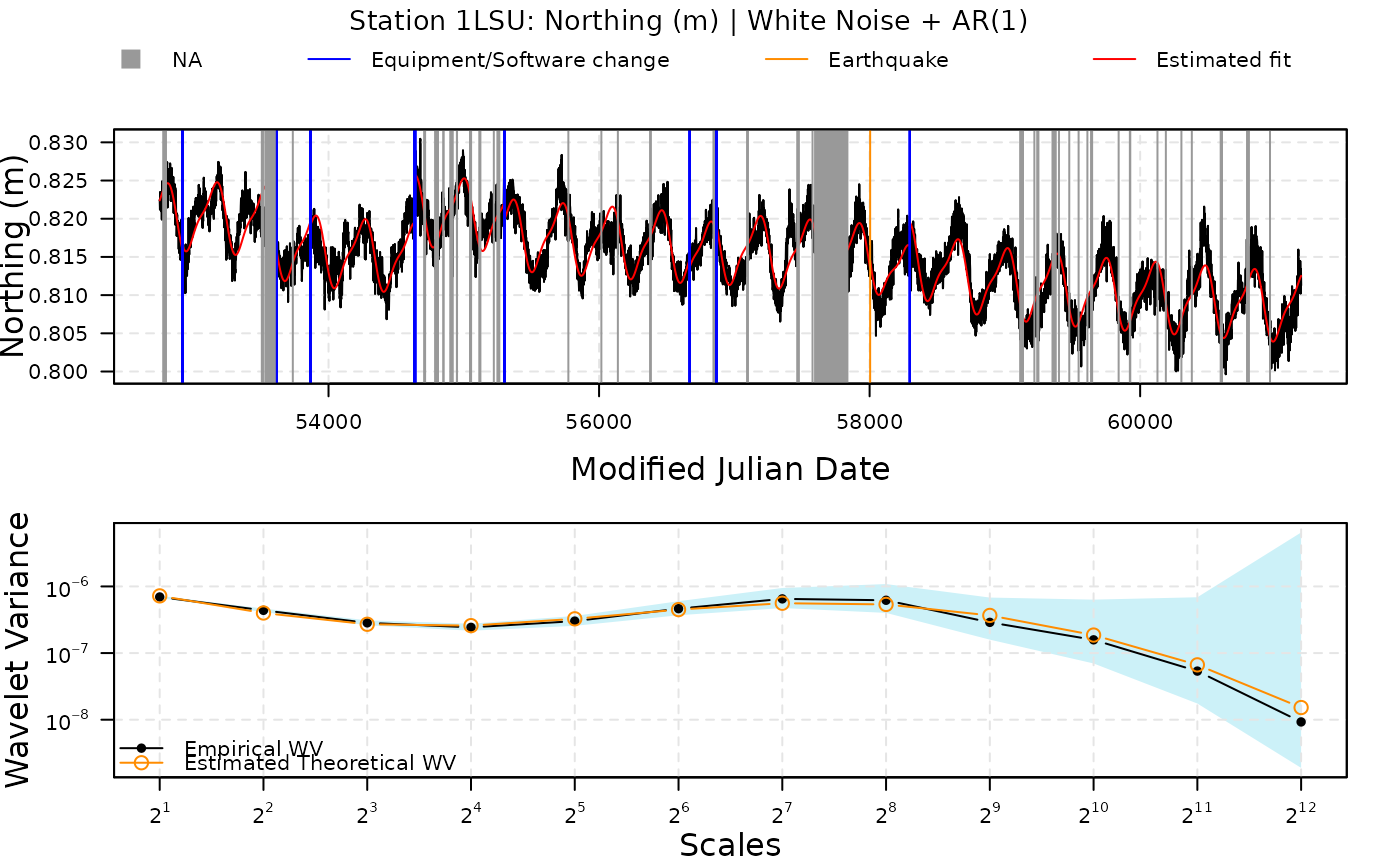
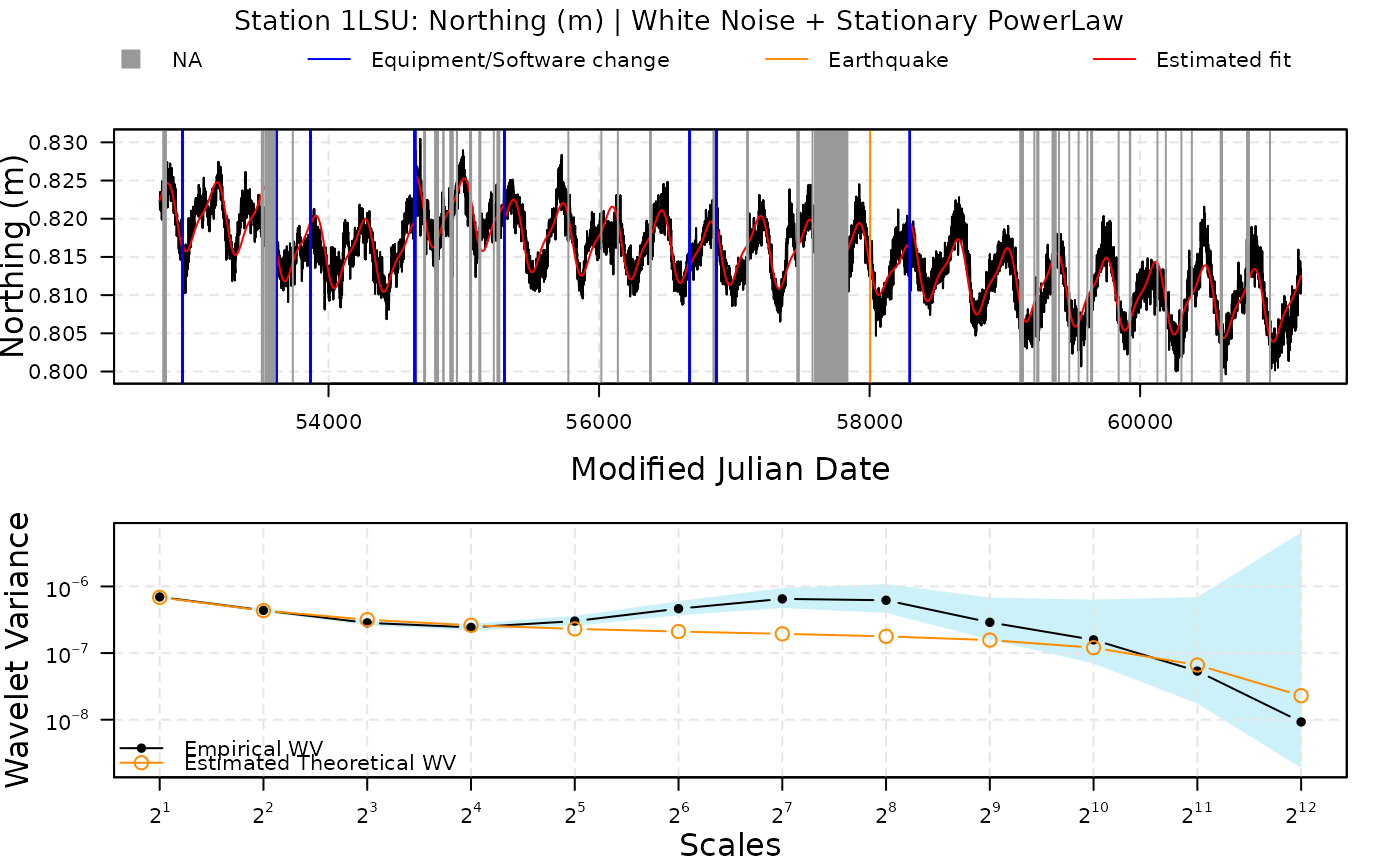
Deploying to gh-pages from @ SMAC-Group/gmwmx2@d0be5cc4b99071ec9215946b4d0a94a5666f7373 🚀

diff --git a/reference/plot.gmwmx2_fit_gnss_ts_ngl.html b/reference/plot.gmwmx2_fit_gnss_ts_ngl.html
@@ -111,76 +111,32 @@
     <div id="ref-examples">
     <h2>Examples</h2>
     <div class="sourceCode"><pre class="sourceCode r"><code><span class="r-in"><span><span class="va">station_data</span> <span class="op">=</span> <span class="fu">gmwmx2</span><span class="fu">::</span><span class="fu"><a href="download_station_ngl.html">download_station_ngl</a></span><span class="op">(</span><span class="st">"1LSU"</span><span class="op">)</span></span></span>
-<span class="r-in"><span><span class="co"># fit station with WN and AR1</span></span></span>
-<span class="r-in"><span><span class="va">fit1</span> <span class="op">&lt;-</span> <span class="fu"><a href="gmwmx2.html">gmwmx2</a></span><span class="op">(</span></span></span>
-<span class="r-in"><span>  <span class="va">station_data</span>,</span></span>
-<span class="r-in"><span>  n_seasonal <span class="op">=</span> <span class="fl">2</span>,</span></span>
-<span class="r-in"><span>  model <span class="op">=</span> <span class="fu"><a href="wn.html">wn</a></span><span class="op">(</span><span class="op">)</span> <span class="op">+</span> <span class="fu"><a href="ar1.html">ar1</a></span><span class="op">(</span><span class="op">)</span>, component <span class="op">=</span> <span class="st">"N"</span></span></span>
-<span class="r-in"><span><span class="op">)</span></span></span>
-<span class="r-in"><span><span class="va">fit1</span></span></span>
-<span class="r-out co"><span class="r-pr">#&gt;</span> GMWMX fit GNSS Times Series (Nevada Geodetic Laboratory)</span>
-<span class="r-out co"><span class="r-pr">#&gt;</span>                         Estimate Std.Error   CI.Lower   CI.Upper</span>
-<span class="r-out co"><span class="r-pr">#&gt;</span> Intercept              8.148e-01 2.226e-03  8.104e-01  8.191e-01</span>
-<span class="r-out co"><span class="r-pr">#&gt;</span> Trend                 -1.275e-06 4.540e-07 -2.165e-06 -3.853e-07</span>
-<span class="r-out co"><span class="r-pr">#&gt;</span> Sin (Annual)          -5.644e-04 2.250e-04 -1.005e-03 -1.235e-04</span>
-<span class="r-out co"><span class="r-pr">#&gt;</span> Cos (Annual)          -4.097e-03 2.248e-04 -4.537e-03 -3.656e-03</span>
-<span class="r-out co"><span class="r-pr">#&gt;</span> Sin (Semi-Annual)      1.124e-03 1.487e-04  8.321e-04  1.415e-03</span>
-<span class="r-out co"><span class="r-pr">#&gt;</span> Cos (Semi-Annual)     -4.307e-04 1.486e-04 -7.218e-04 -1.395e-04</span>
-<span class="r-out co"><span class="r-pr">#&gt;</span> Jump: MJD 52920        5.892e-04 1.375e-03 -2.106e-03  3.284e-03</span>
-<span class="r-out co"><span class="r-pr">#&gt;</span> Jump: MJD 53619       -2.957e-03 1.258e-03 -5.423e-03 -4.902e-04</span>
-<span class="r-out co"><span class="r-pr">#&gt;</span> Jump: MJD 53866       -4.751e-04 1.251e-03 -2.928e-03  1.978e-03</span>
-<span class="r-out co"><span class="r-pr">#&gt;</span> Jump: MJD 54637       -2.108e-04 2.014e-03 -4.159e-03  3.737e-03</span>
-<span class="r-out co"><span class="r-pr">#&gt;</span> Jump: MJD 54640        6.484e-03 2.016e-03  2.533e-03  1.044e-02</span>
-<span class="r-out co"><span class="r-pr">#&gt;</span> Jump: MJD 55300       -2.310e-03 9.677e-04 -4.206e-03 -4.132e-04</span>
-<span class="r-out co"><span class="r-pr">#&gt;</span> Jump: MJD 56671       -1.010e-03 1.302e-03 -3.562e-03  1.542e-03</span>
-<span class="r-out co"><span class="r-pr">#&gt;</span> Jump: MJD 56868        1.196e-03 1.301e-03 -1.354e-03  3.746e-03</span>
-<span class="r-out co"><span class="r-pr">#&gt;</span> Jump: MJD 58298        3.127e-03 1.977e-03 -7.481e-04  7.001e-03</span>
-<span class="r-out co"><span class="r-pr">#&gt;</span> Jump: MJD 58004        1.098e-03 1.492e-03 -1.826e-03  4.022e-03</span>
-<span class="r-out co"><span class="r-pr">#&gt;</span> Earthquake: MJD 58004 -6.512e-03 3.377e-03 -1.313e-02  1.078e-04</span>
-<span class="r-out co"><span class="r-pr">#&gt;</span> </span>
-<span class="r-out co"><span class="r-pr">#&gt;</span> Missingness model</span>
-<span class="r-out co"><span class="r-pr">#&gt;</span>   Proportion missing : 0.0576 </span>
-<span class="r-out co"><span class="r-pr">#&gt;</span>   p1                 : 0.0072 </span>
-<span class="r-out co"><span class="r-pr">#&gt;</span>   p2                 : 0.1173 </span>
-<span class="r-out co"><span class="r-pr">#&gt;</span>   p*                 : 0.9424 </span>
-<span class="r-out co"><span class="r-pr">#&gt;</span> </span>
-<span class="r-out co"><span class="r-pr">#&gt;</span> Stochastic model</span>
-<span class="r-out co"><span class="r-pr">#&gt;</span>   Sum of 2 processes</span>
-<span class="r-out co"><span class="r-pr">#&gt;</span>   [1] White Noise</span>
-<span class="r-out co"><span class="r-pr">#&gt;</span>        Estimated parameters : sigma2 = 1.443e-06 </span>
-<span class="r-out co"><span class="r-pr">#&gt;</span>   [2] AR(1)</span>
-<span class="r-out co"><span class="r-pr">#&gt;</span>        Estimated parameters : phi = 0.9804, sigma2 = 1.352e-07 </span>
-<span class="r-out co"><span class="r-pr">#&gt;</span> </span>
-<span class="r-out co"><span class="r-pr">#&gt;</span> Runtime (seconds)</span>
-<span class="r-out co"><span class="r-pr">#&gt;</span>   Total              : 3.3090 </span>
-<span class="r-in"><span><span class="fu"><a href="https://rdrr.io/r/graphics/plot.default.html" class="external-link">plot</a></span><span class="op">(</span><span class="va">fit1</span><span class="op">)</span></span></span>
-<span class="r-plt img"><img src="plot.gmwmx2_fit_gnss_ts_ngl-1.png" alt="" width="700" height="433"></span>
 <span class="r-in"><span><span class="co"># fit station with WN and PL</span></span></span>
-<span class="r-in"><span><span class="va">fit2</span> <span class="op">&lt;-</span> <span class="fu"><a href="gmwmx2.html">gmwmx2</a></span><span class="op">(</span></span></span>
+<span class="r-in"><span><span class="va">fit1</span> <span class="op">&lt;-</span> <span class="fu"><a href="gmwmx2.html">gmwmx2</a></span><span class="op">(</span></span></span>
 <span class="r-in"><span>  <span class="va">station_data</span>,</span></span>
 <span class="r-in"><span>  n_seasonal <span class="op">=</span> <span class="fl">2</span>,</span></span>
 <span class="r-in"><span>  model <span class="op">=</span> <span class="fu"><a href="wn.html">wn</a></span><span class="op">(</span><span class="op">)</span> <span class="op">+</span> <span class="fu"><a href="pl.html">pl</a></span><span class="op">(</span><span class="op">)</span>, component <span class="op">=</span> <span class="st">"N"</span></span></span>
 <span class="r-in"><span><span class="op">)</span></span></span>
-<span class="r-in"><span><span class="va">fit2</span></span></span>
+<span class="r-in"><span><span class="va">fit1</span></span></span>
 <span class="r-out co"><span class="r-pr">#&gt;</span> GMWMX fit GNSS Times Series (Nevada Geodetic Laboratory)</span>
 <span class="r-out co"><span class="r-pr">#&gt;</span>                         Estimate Std.Error   CI.Lower  CI.Upper</span>
-<span class="r-out co"><span class="r-pr">#&gt;</span> Intercept              8.148e-01 5.008e-01 -1.667e-01 1.796e+00</span>
-<span class="r-out co"><span class="r-pr">#&gt;</span> Trend                 -1.275e-06 1.217e-05 -2.513e-05 2.258e-05</span>
-<span class="r-out co"><span class="r-pr">#&gt;</span> Sin (Annual)          -5.644e-04 7.422e-03 -1.511e-02 1.398e-02</span>
-<span class="r-out co"><span class="r-pr">#&gt;</span> Cos (Annual)          -4.097e-03 7.404e-03 -1.861e-02 1.042e-02</span>
-<span class="r-out co"><span class="r-pr">#&gt;</span> Sin (Semi-Annual)      1.124e-03 7.133e-03 -1.286e-02 1.510e-02</span>
-<span class="r-out co"><span class="r-pr">#&gt;</span> Cos (Semi-Annual)     -4.307e-04 7.116e-03 -1.438e-02 1.352e-02</span>
-<span class="r-out co"><span class="r-pr">#&gt;</span> Jump: MJD 52920        5.892e-04 4.065e-02 -7.909e-02 8.027e-02</span>
-<span class="r-out co"><span class="r-pr">#&gt;</span> Jump: MJD 53619       -2.957e-03 3.534e-02 -7.223e-02 6.631e-02</span>
-<span class="r-out co"><span class="r-pr">#&gt;</span> Jump: MJD 53866       -4.751e-04 3.508e-02 -6.922e-02 6.827e-02</span>
-<span class="r-out co"><span class="r-pr">#&gt;</span> Jump: MJD 54637       -2.108e-04 1.161e-01 -2.277e-01 2.273e-01</span>
-<span class="r-out co"><span class="r-pr">#&gt;</span> Jump: MJD 54640        6.484e-03 1.161e-01 -2.211e-01 2.341e-01</span>
-<span class="r-out co"><span class="r-pr">#&gt;</span> Jump: MJD 55300       -2.310e-03 2.567e-02 -5.262e-02 4.800e-02</span>
-<span class="r-out co"><span class="r-pr">#&gt;</span> Jump: MJD 56671       -1.010e-03 3.719e-02 -7.390e-02 7.188e-02</span>
-<span class="r-out co"><span class="r-pr">#&gt;</span> Jump: MJD 56868        1.196e-03 3.723e-02 -7.177e-02 7.416e-02</span>
-<span class="r-out co"><span class="r-pr">#&gt;</span> Jump: MJD 58298        3.127e-03 6.089e-02 -1.162e-01 1.225e-01</span>
-<span class="r-out co"><span class="r-pr">#&gt;</span> Jump: MJD 58004        1.098e-03 4.113e-02 -7.952e-02 8.172e-02</span>
-<span class="r-out co"><span class="r-pr">#&gt;</span> Earthquake: MJD 58004 -6.512e-03 1.007e-01 -2.039e-01 1.909e-01</span>
+<span class="r-out co"><span class="r-pr">#&gt;</span> Intercept              8.148e-01 5.623e-01 -2.874e-01 1.917e+00</span>
+<span class="r-out co"><span class="r-pr">#&gt;</span> Trend                 -1.275e-06 1.366e-05 -2.806e-05 2.551e-05</span>
+<span class="r-out co"><span class="r-pr">#&gt;</span> Sin (Annual)          -5.644e-04 8.334e-03 -1.690e-02 1.577e-02</span>
+<span class="r-out co"><span class="r-pr">#&gt;</span> Cos (Annual)          -4.097e-03 8.314e-03 -2.039e-02 1.220e-02</span>
+<span class="r-out co"><span class="r-pr">#&gt;</span> Sin (Semi-Annual)      1.124e-03 8.010e-03 -1.458e-02 1.682e-02</span>
+<span class="r-out co"><span class="r-pr">#&gt;</span> Cos (Semi-Annual)     -4.307e-04 7.991e-03 -1.609e-02 1.523e-02</span>
+<span class="r-out co"><span class="r-pr">#&gt;</span> Jump: MJD 52920        5.892e-04 4.565e-02 -8.888e-02 9.006e-02</span>
+<span class="r-out co"><span class="r-pr">#&gt;</span> Jump: MJD 53619       -2.957e-03 3.968e-02 -8.074e-02 7.482e-02</span>
+<span class="r-out co"><span class="r-pr">#&gt;</span> Jump: MJD 53866       -4.751e-04 3.939e-02 -7.767e-02 7.672e-02</span>
+<span class="r-out co"><span class="r-pr">#&gt;</span> Jump: MJD 54637       -2.108e-04 1.303e-01 -2.557e-01 2.553e-01</span>
+<span class="r-out co"><span class="r-pr">#&gt;</span> Jump: MJD 54640        6.484e-03 1.304e-01 -2.491e-01 2.621e-01</span>
+<span class="r-out co"><span class="r-pr">#&gt;</span> Jump: MJD 55300       -2.310e-03 2.882e-02 -5.879e-02 5.417e-02</span>
+<span class="r-out co"><span class="r-pr">#&gt;</span> Jump: MJD 56671       -1.010e-03 4.176e-02 -8.286e-02 8.084e-02</span>
+<span class="r-out co"><span class="r-pr">#&gt;</span> Jump: MJD 56868        1.196e-03 4.180e-02 -8.073e-02 8.312e-02</span>
+<span class="r-out co"><span class="r-pr">#&gt;</span> Jump: MJD 58298        3.127e-03 6.837e-02 -1.309e-01 1.371e-01</span>
+<span class="r-out co"><span class="r-pr">#&gt;</span> Jump: MJD 58004        1.098e-03 4.618e-02 -8.942e-02 9.162e-02</span>
+<span class="r-out co"><span class="r-pr">#&gt;</span> Earthquake: MJD 58004 -6.512e-03 1.131e-01 -2.282e-01 2.152e-01</span>
 <span class="r-out co"><span class="r-pr">#&gt;</span> </span>
 <span class="r-out co"><span class="r-pr">#&gt;</span> Missingness model</span>
 <span class="r-out co"><span class="r-pr">#&gt;</span>   Proportion missing : 0.0576 </span>
@@ -191,58 +147,14 @@
 <span class="r-out co"><span class="r-pr">#&gt;</span> Stochastic model</span>
 <span class="r-out co"><span class="r-pr">#&gt;</span>   Sum of 2 processes</span>
 <span class="r-out co"><span class="r-pr">#&gt;</span>   [1] White Noise</span>
-<span class="r-out co"><span class="r-pr">#&gt;</span>        Estimated parameters : sigma2 = 8.201e-07 </span>
+<span class="r-out co"><span class="r-pr">#&gt;</span>        Estimated parameters : sigma2 = 8.2e-07 </span>
 <span class="r-out co"><span class="r-pr">#&gt;</span>   [2] Stationary PowerLaw</span>
 <span class="r-out co"><span class="r-pr">#&gt;</span>        Estimated parameters : kappa =    -1, sigma2 = 9.783e-07 </span>
 <span class="r-out co"><span class="r-pr">#&gt;</span> </span>
 <span class="r-out co"><span class="r-pr">#&gt;</span> Runtime (seconds)</span>
-<span class="r-out co"><span class="r-pr">#&gt;</span>   Total              : 1.7570 </span>
-<span class="r-in"><span><span class="fu"><a href="https://rdrr.io/r/graphics/plot.default.html" class="external-link">plot</a></span><span class="op">(</span><span class="va">fit2</span><span class="op">)</span></span></span>
-<span class="r-plt img"><img src="plot.gmwmx2_fit_gnss_ts_ngl-2.png" alt="" width="700" height="433"></span>
-<span class="r-in"><span><span class="co"># fit station with WN and Matern</span></span></span>
-<span class="r-in"><span><span class="va">fit3</span> <span class="op">=</span> <span class="fu"><a href="gmwmx2.html">gmwmx2</a></span><span class="op">(</span></span></span>
-<span class="r-in"><span>  <span class="va">station_data</span>,</span></span>
-<span class="r-in"><span>  n_seasonal <span class="op">=</span> <span class="fl">2</span>,</span></span>
-<span class="r-in"><span>  model <span class="op">=</span> <span class="fu"><a href="wn.html">wn</a></span><span class="op">(</span><span class="op">)</span> <span class="op">+</span> <span class="fu"><a href="matern.html">matern</a></span><span class="op">(</span><span class="op">)</span>, component <span class="op">=</span> <span class="st">"N"</span></span></span>
-<span class="r-in"><span><span class="op">)</span></span></span>
-<span class="r-in"><span><span class="va">fit3</span></span></span>
-<span class="r-out co"><span class="r-pr">#&gt;</span> GMWMX fit GNSS Times Series (Nevada Geodetic Laboratory)</span>
-<span class="r-out co"><span class="r-pr">#&gt;</span>                         Estimate Std.Error   CI.Lower   CI.Upper</span>
-<span class="r-out co"><span class="r-pr">#&gt;</span> Intercept              8.148e-01 2.360e-03  8.101e-01  8.194e-01</span>
-<span class="r-out co"><span class="r-pr">#&gt;</span> Trend                 -1.275e-06 4.870e-07 -2.230e-06 -3.205e-07</span>
-<span class="r-out co"><span class="r-pr">#&gt;</span> Sin (Annual)          -5.644e-04 2.178e-04 -9.912e-04 -1.375e-04</span>
-<span class="r-out co"><span class="r-pr">#&gt;</span> Cos (Annual)          -4.097e-03 2.180e-04 -4.524e-03 -3.669e-03</span>
-<span class="r-out co"><span class="r-pr">#&gt;</span> Sin (Semi-Annual)      1.124e-03 1.384e-04  8.525e-04  1.395e-03</span>
-<span class="r-out co"><span class="r-pr">#&gt;</span> Cos (Semi-Annual)     -4.307e-04 1.383e-04 -7.017e-04 -1.597e-04</span>
-<span class="r-out co"><span class="r-pr">#&gt;</span> Jump: MJD 52920        5.892e-04 1.421e-03 -2.195e-03  3.374e-03</span>
-<span class="r-out co"><span class="r-pr">#&gt;</span> Jump: MJD 53619       -2.957e-03 1.320e-03 -5.544e-03 -3.695e-04</span>
-<span class="r-out co"><span class="r-pr">#&gt;</span> Jump: MJD 53866       -4.751e-04 1.314e-03 -3.050e-03  2.100e-03</span>
-<span class="r-out co"><span class="r-pr">#&gt;</span> Jump: MJD 54637       -2.108e-04 2.012e-03 -4.154e-03  3.732e-03</span>
-<span class="r-out co"><span class="r-pr">#&gt;</span> Jump: MJD 54640        6.484e-03 2.013e-03  2.538e-03  1.043e-02</span>
-<span class="r-out co"><span class="r-pr">#&gt;</span> Jump: MJD 55300       -2.310e-03 1.040e-03 -4.348e-03 -2.719e-04</span>
-<span class="r-out co"><span class="r-pr">#&gt;</span> Jump: MJD 56671       -1.010e-03 1.361e-03 -3.677e-03  1.657e-03</span>
-<span class="r-out co"><span class="r-pr">#&gt;</span> Jump: MJD 56868        1.196e-03 1.359e-03 -1.468e-03  3.860e-03</span>
-<span class="r-out co"><span class="r-pr">#&gt;</span> Jump: MJD 58298        3.127e-03 2.026e-03 -8.437e-04  7.097e-03</span>
-<span class="r-out co"><span class="r-pr">#&gt;</span> Jump: MJD 58004        1.098e-03 1.591e-03 -2.020e-03  4.216e-03</span>
-<span class="r-out co"><span class="r-pr">#&gt;</span> Earthquake: MJD 58004 -6.512e-03 3.524e-03 -1.342e-02  3.953e-04</span>
-<span class="r-out co"><span class="r-pr">#&gt;</span> </span>
-<span class="r-out co"><span class="r-pr">#&gt;</span> Missingness model</span>
-<span class="r-out co"><span class="r-pr">#&gt;</span>   Proportion missing : 0.0576 </span>
-<span class="r-out co"><span class="r-pr">#&gt;</span>   p1                 : 0.0072 </span>
-<span class="r-out co"><span class="r-pr">#&gt;</span>   p2                 : 0.1173 </span>
-<span class="r-out co"><span class="r-pr">#&gt;</span>   p*                 : 0.9424 </span>
-<span class="r-out co"><span class="r-pr">#&gt;</span> </span>
-<span class="r-out co"><span class="r-pr">#&gt;</span> Stochastic model</span>
-<span class="r-out co"><span class="r-pr">#&gt;</span>   Sum of 2 processes</span>
-<span class="r-out co"><span class="r-pr">#&gt;</span>   [1] White Noise</span>
-<span class="r-out co"><span class="r-pr">#&gt;</span>        Estimated parameters : sigma2 = 1.367e-06 </span>
-<span class="r-out co"><span class="r-pr">#&gt;</span>   [2] Matern</span>
-<span class="r-out co"><span class="r-pr">#&gt;</span>        Estimated parameters : sigma2 = 3.544e-06, lambda = 0.01399, alpha = 0.8837 </span>
-<span class="r-out co"><span class="r-pr">#&gt;</span> </span>
-<span class="r-out co"><span class="r-pr">#&gt;</span> Runtime (seconds)</span>
-<span class="r-out co"><span class="r-pr">#&gt;</span>   Total              : 2.1823 </span>
-<span class="r-in"><span><span class="fu"><a href="https://rdrr.io/r/graphics/plot.default.html" class="external-link">plot</a></span><span class="op">(</span><span class="va">fit3</span><span class="op">)</span></span></span>
-<span class="r-plt img"><img src="plot.gmwmx2_fit_gnss_ts_ngl-3.png" alt="" width="700" height="433"></span>
+<span class="r-out co"><span class="r-pr">#&gt;</span>   Total              : 3.4955 </span>
+<span class="r-in"><span><span class="fu"><a href="https://rdrr.io/r/graphics/plot.default.html" class="external-link">plot</a></span><span class="op">(</span><span class="va">fit1</span><span class="op">)</span></span></span>
+<span class="r-plt img"><img src="plot.gmwmx2_fit_gnss_ts_ngl-1.png" alt="" width="700" height="433"></span>
 <span class="r-in"><span></span></span>
 </code></pre></div>
     </div>

diff --git a/reference/print.gmwm2_fit.html b/reference/print.gmwm2_fit.html
@@ -143,7 +143,7 @@
 <span class="r-out co"><span class="r-pr">#&gt;</span> </span>
 <span class="r-out co"><span class="r-pr">#&gt;</span> Optimization</span>
 <span class="r-out co"><span class="r-pr">#&gt;</span>   Convergence : converged (code 0)</span>
-<span class="r-out co"><span class="r-pr">#&gt;</span>   Iterations  : 96</span>
+<span class="r-out co"><span class="r-pr">#&gt;</span>   Iterations  : 108</span>
 <span class="r-out co"><span class="r-pr">#&gt;</span>   Loss        : 0.07507</span>
 </code></pre></div>
     </div>